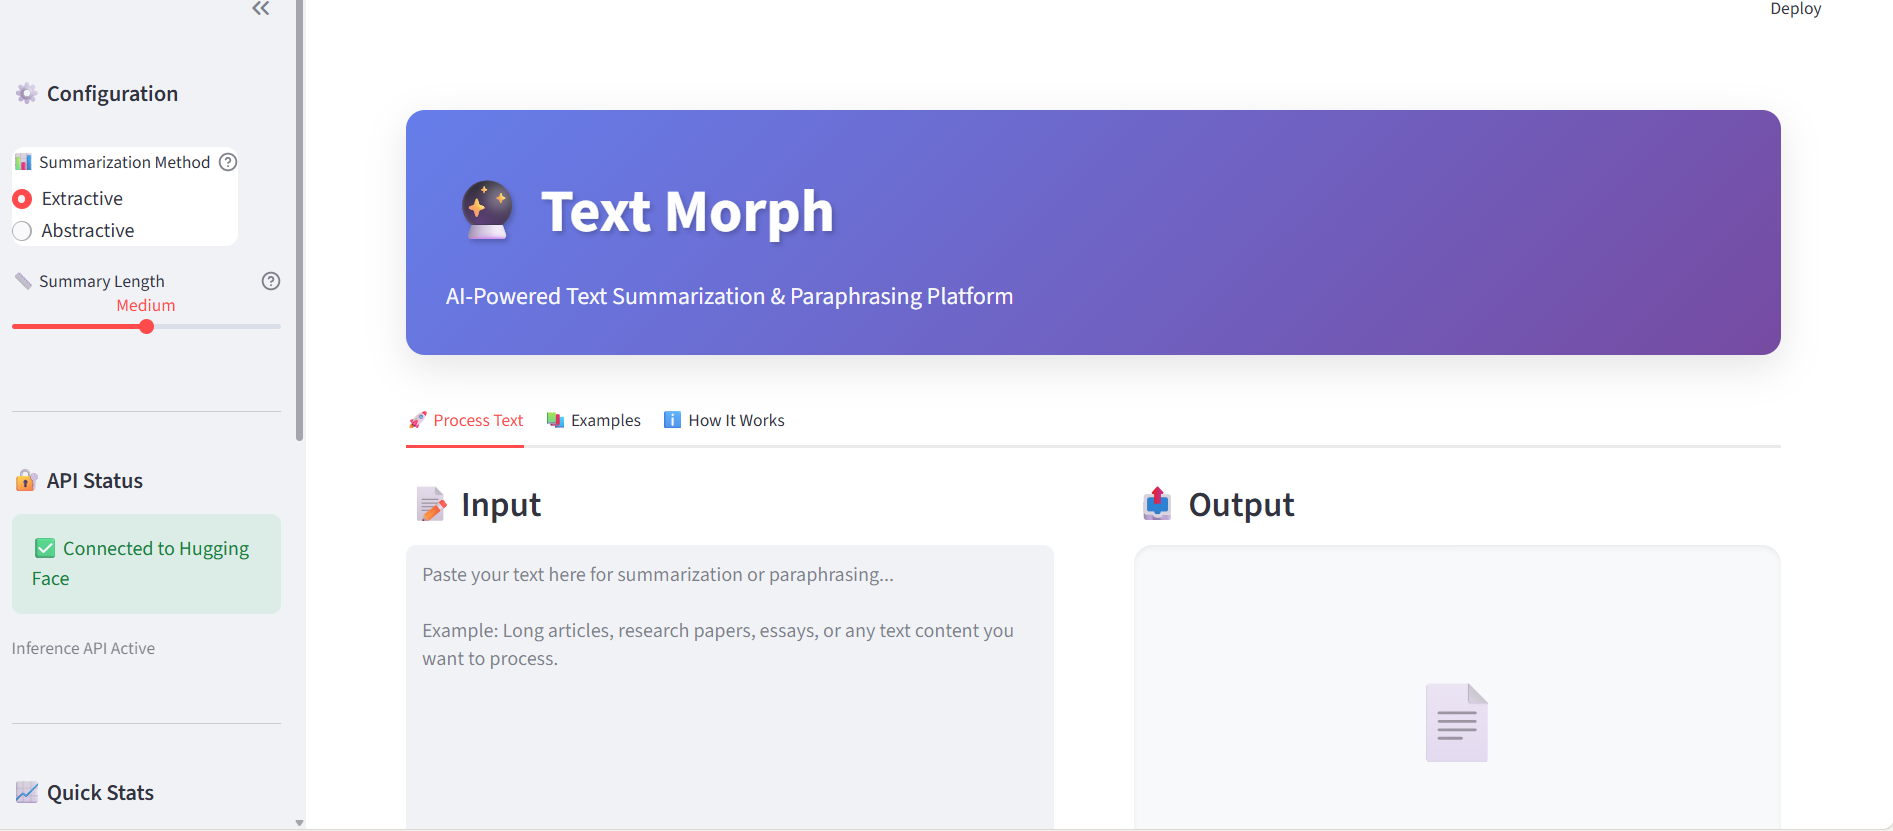
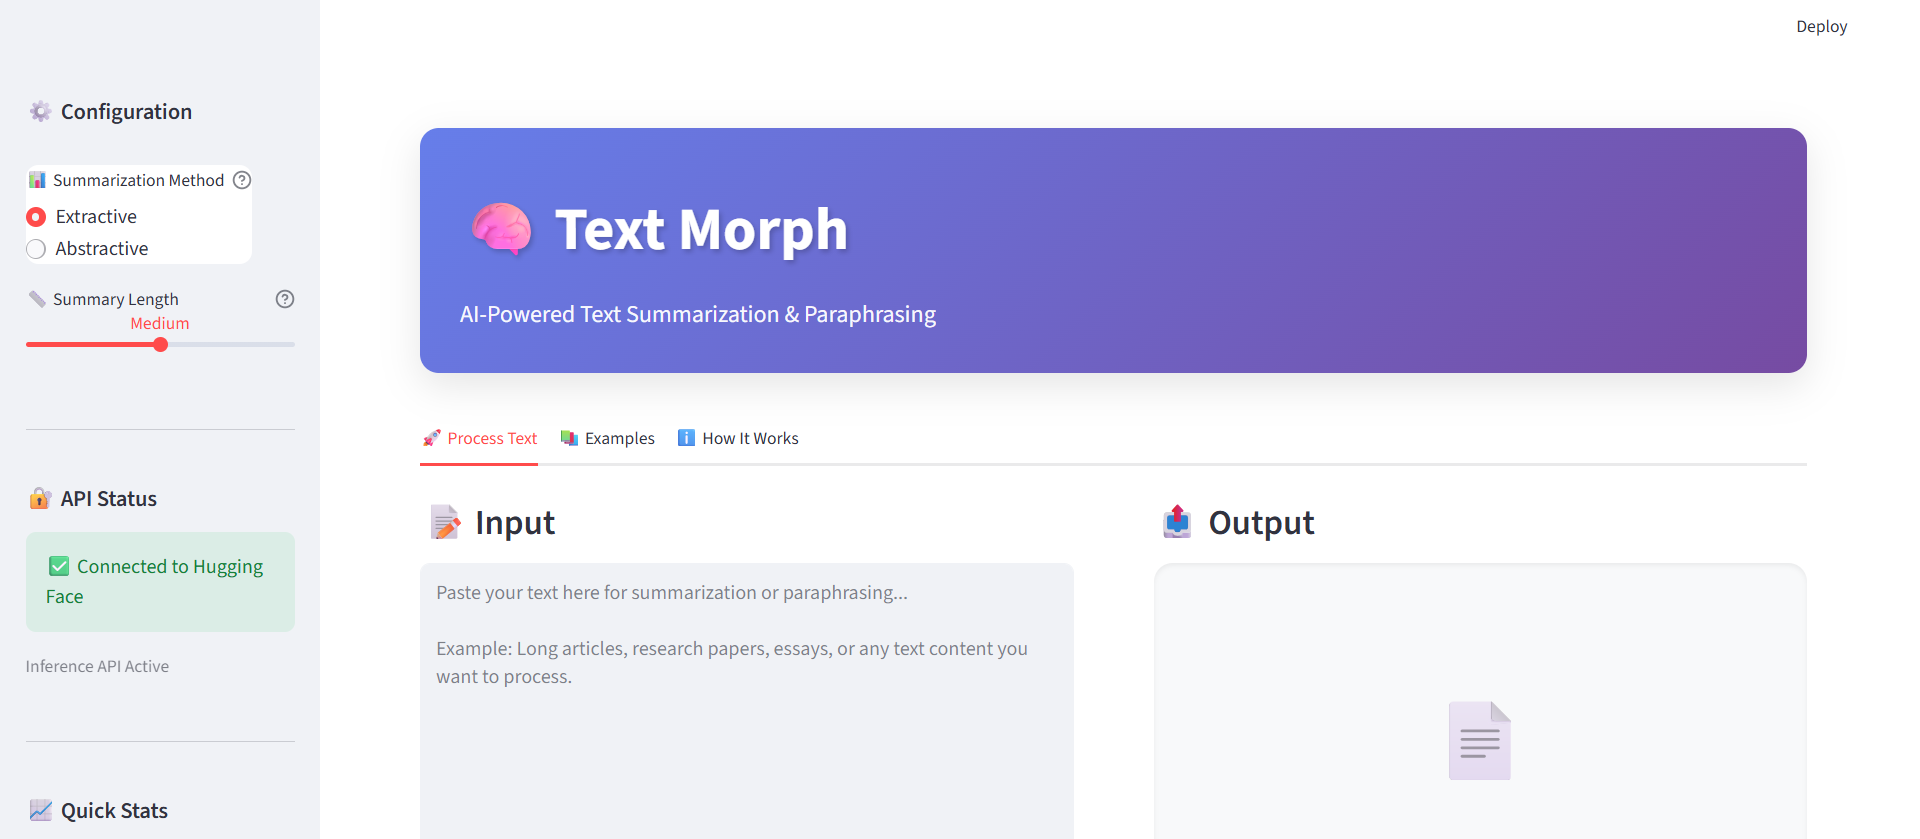
Update README.md and screenshots

diff --git a/README.md b/README.md
@@ -1,24 +1,23 @@
-<<<<<<< HEAD
-# 🔮 Text Morph - Advanced Text Summarization and Paraphrasing
+# 🧠 Text Morph - AI Text Summarization & Paraphrasing
 
 <div align="center">
 
 ![Python](https://img.shields.io/badge/python-v3.8+-blue.svg)
 ![Streamlit](https://img.shields.io/badge/streamlit-1.28+-FF4B4B.svg?style=flat&logo=streamlit&logoColor=white)
-![Hugging Face](https://img.shields.io/badge/🤗%20Hugging%20Face-API-yellow.svg)
+![Hugging Face](https://img.shields.io/badge/🤗%20Hugging%20Face-yellow.svg)
 ![NLP](https://img.shields.io/badge/NLP-BART%20%7C%20LLaMA-green.svg)
 ![License](https://img.shields.io/badge/license-MIT-green.svg)
 
-*A beautiful, AI-powered web application that provides intelligent text summarization and paraphrasing using state-of-the-art language models.*
+*An AI-powered web app that helps you summarize and paraphrase text quickly and easily.*
 
 </div>
 
-## 📸 Screenshot
+## 📸 Screenshots
 
-Here is a preview of the application's user interface:
+Here is a preview of Text Morph interface:
 
-![Text Morph Interface](assets/screenshot1.png)
-![Text Morph Interface](assets/screenshot2.png)
+![Text Morph Screenshot 1](assets/screenshot1.png)
+![Text Morph Screenshot 2](assets/screenshot2.png)
 
 ## 📋 Table of Contents
 
@@ -35,73 +34,67 @@ Here is a preview of the application's user interface:
 
 ## 🎯 Project Overview
 
-**Text Morph** is an advanced AI-powered text processing platform designed to help users quickly understand and rework lengthy content. It leverages state-of-the-art Natural Language Processing (NLP) models including Facebook's BART and Meta's LLaMA 3.1 to provide two core functionalities:
+**Text Morph** is a smart AI text tool that lets you shorten and rephrase long text.  
+It uses NLP models including Facebook's **BART** and Meta's **LLaMA 3.1** to provide:
 
-1. **Text Summarization**: Condense long documents into concise summaries using both extractive and abstractive methods
-2. **Text Paraphrasing**: Rephrase content while maintaining its original meaning
+1. **Summarization**: Condense text using extractive or abstractive methods  
+2. **Paraphrasing**: Rephrase content naturally without changing meaning
 
-The application features a modern, professional interface with gradient themes, smooth animations, and an intuitive design built with Streamlit. It's perfect for students, professionals, content creators, and researchers who need to process large amounts of text efficiently.
+The interface is simple, modern, and interactive using Streamlit. Ideal for students, writers, and professionals needing fast text processing.
 
 ## ✨ Features
 
-### 🎨 Modern User Interface
--   **Beautiful Gradient Design**: Professional purple gradient theme with smooth transitions
--   **Tab-Based Navigation**: Organized interface with Process Text, Examples, and How It Works tabs
--   **Responsive Layout**: Works seamlessly on desktop and mobile devices
--   **Real-Time Metrics**: Live character count, word count, and reduction percentage
--   **Smooth Animations**: Hover effects and transitions for enhanced user experience
+### 🎨 Modern Interface
+- Gradient-based purple theme with smooth design
+- Tabs for **Process Text**, **Examples**, **How It Works**
+- Mobile-friendly layout
+- Live character, word count, and reduction percentage
+- Smooth button hover effects
 
-### 🤖 AI-Powered Processing
--   **Dual Summarization Methods**:
-    -   **Extractive**: Selects key sentences from the original text
-    -   **Abstractive**: Generates new summary sentences using AI
--   **Intelligent Paraphrasing**: Natural language rephrasing with multiple variations
--   **Flexible Summary Lengths**: Choose from Short (30-60 words), Medium (60-130 words), or Long (130-200 words)
+### 🤖 AI Processing
+- **Two summarization modes**: Extractive & Abstractive
+- **Paraphrasing**: Multiple alternative phrasings
+- Choose summary length: Short, Medium, Long
 
-### ⚡ Performance & Convenience
--   **Fast Processing**: 2-5 second response time
--   **Cloud-Based**: No model downloads required
--   **Download Results**: Export summaries and paraphrased text as .txt files
--   **API Status Monitoring**: Real-time connection status display
+### ⚡ Convenience
+- Fast results (2-5 sec)
+- Cloud-based (no local model downloads)
+- Download summaries & paraphrases as `.txt`
+- API status indicator for Hugging Face and GROQ
 
 ## 🛠 Technologies Used
 
 | Technology | Purpose |
 |------------|---------|
 | ![Python](https://img.shields.io/badge/Python-3776AB?style=flat&logo=python&logoColor=white) | Core programming language |
-| ![Streamlit](https://img.shields.io/badge/Streamlit-FF4B4B?style=flat&logo=streamlit&logoColor=white) | Web application framework |
+| ![Streamlit](https://img.shields.io/badge/Streamlit-FF4B4B?style=flat&logo=streamlit&logoColor=white) | Web app framework |
 | ![Hugging Face](https://img.shields.io/badge/🤗%20Hugging%20Face-FFD21E?style=flat) | BART model API access |
-| ![GROQ](https://img.shields.io/badge/GROQ-000000?style=flat&logo=groq&logoColor=white) | LLaMA model inference API |
-| ![Requests](https://img.shields.io/badge/Requests-2CA5E0?style=flat) | HTTP library for API calls |
-| ![Python-dotenv](https://img.shields.io/badge/python--dotenv-ECD53F?style=flat) | Environment variable management |
-| ![CSS](https://img.shields.io/badge/CSS3-1572B6?style=flat&logo=css3&logoColor=white) | Custom styling and animations |
+| ![GROQ](https://img.shields.io/badge/GROQ-000000?style=flat&logo=groq&logoColor=white) | LLaMA model API |
+| ![Requests](https://img.shields.io/badge/Requests-2CA5E0?style=flat) | HTTP calls to APIs |
+| ![Python-dotenv](https://img.shields.io/badge/python--dotenv-ECD53F?style=flat) | Manage environment variables |
+| ![CSS](https://img.shields.io/badge/CSS3-1572B6?style=flat&logo=css3&logoColor=white) | Custom styles & animations |
 
 ## 🤖 AI Models
 
-### BART (Bidirectional and Auto-Regressive Transformers)
--   **Developer**: Facebook AI Research
--   **Model**: `facebook/bart-large-cnn`
--   **Parameters**: 406M
--   **Purpose**: Text summarization (both extractive and abstractive)
--   **Strengths**: High accuracy, contextual understanding, versatile for various text types
+### BART (Facebook AI)
+- Model: `facebook/bart-large-cnn`
+- Used for: Summarization (extractive & abstractive)
+- Strength: Understands context, accurate summaries
 
-### LLaMA 3.1 (Large Language Model Meta AI)
--   **Developer**: Meta AI
--   **Model**: `llama-3.1-8b-instant`
--   **Parameters**: 8B
--   **Purpose**: Text paraphrasing
--   **Strengths**: Natural language generation, fast inference, maintains semantic meaning
+### LLaMA 3.1 (Meta AI)
+- Model: `llama-3.1-8b-instant`
+- Used for: Paraphrasing
+- Strength: Fast, maintains meaning, multiple variations
 
 ## 🚀 Quick Start
 
 ### Prerequisites
-- Python 3.8 or higher
-- Hugging Face API key (free)
-- GROQ API key (free)
+- Python 3.8+
+- Hugging Face API key
+- GROQ API key
 
 ### Installation
-
-1. **Clone the repository**
+1. **Clone repo:**
    ```bash
    git clone https://github.com/yourusername/text-morph.git
    cd text-morph
@@ -179,38 +172,29 @@ Your default web browser will open automatically at `http://localhost:8501`
 ```
 TEXT_MORPH/
 │
-├── 📁 __pycache__/                 # Python cache files
-│
-├── 📁 assets/                      # Static assets
-│   ├── screenshot1.png             # Application screenshot 1
-│   └── screenshot2.png             # Application screenshot 2
-│
-├── 📁 configure/                   # Configuration files
-│   ├── config_manager.py           # Configuration manager
-│   └── config.yaml                 # Application configuration
-│
-├── 📁 docs/                        # Documentation
-│   ├── API_Docs.md                 # API documentation
-│   └── Technical_Report.md         # Technical report
-│
-├── 📁 myenv/                       # Virtual environment (not in repo)
-│
-├── 📁 src/                         # Source code
-│   ├── __pycache__/                # Python cache
-│   ├── __init__.py                 # Package initializer
-│   ├── .env                        # Environment variables (API keys)
-│   ├── AbstractiveSummarizer.py    # Abstractive summarization module
-│   ├── combinedPipeline.py         # Main pipeline orchestrator
-│   ├── exceptions.py               # Custom exception classes
-│   ├── ExtractiveSummarizer.py     # Extractive summarization module
-│   ├── logging_system.py           # Logging configuration
-│   └── paraphraser.py              # Text paraphrasing module
-│
-├── .gitignore                      # Git ignore rules
-├── app.py                          # Main Streamlit application
-├── pyproject.toml                  # Project metadata
-├── README.md                       # Project documentation (this file)
-└── requirements.txt                # Python dependencies
+├── assets/                  # Images & static files
+│   ├── screenshot1.png
+│   └── screenshot2.png
+├── configure/               # Configuration
+│   ├── config_manager.py
+│   └── config.yaml
+├── docs/                    # Documentation
+│   ├── API_Docs.md
+│   └── Technical_Report.md
+├── src/                     # Source code
+│   ├── __init__.py
+│   ├── AbstractiveSummarizer.py
+│   ├── combinedPipeline.py
+│   ├── exceptions.py
+│   ├── ExtractiveSummarizer.py
+│   ├── logging_system.py
+│   └── paraphraser.py
+├── app.py
+├── requirements.txt
+├── pyproject.toml
+├── .gitignore
+└── README.md
+
 ```
 
 ## 🎨 UI Features
@@ -247,21 +231,21 @@ TEXT_MORPH/
 
 Contributions are welcome! Here's how you can help:
 
-1. 🍴 Fork the repository
-2. 🌿 Create a feature branch (`git checkout -b feature/AmazingFeature`)
-3. 💾 Commit your changes (`git commit -m 'Add some AmazingFeature'`)
-4. 📤 Push to the branch (`git push origin feature/AmazingFeature`)
-5. 🔄 Open a Pull Request
+1. Fork the repository
+2. Create feature branch (`git checkout -b feature/NewFeature`)
+3. Commit changes (`git commit -m 'Add Feature'`)
+4. Push branch (`git push origin feature/NewFeature`)
+5. Open a Pull Request
 
-### Ideas for Contributions:
-- 🌙 Dark mode toggle
-- 🌍 Multi-language support
-- 📄 PDF/DOCX file upload
-- 📊 Batch processing capabilities
-- 📝 History tracking feature
-- 🎨 Additional theme options
-- 🤖 More AI model options
-- 📱 Progressive Web App (PWA) features
+### Contribution Ideas:
+- Dark mode toggle
+- Multi-language support
+- PDF/DOCX file upload
+- Batch processing 
+- History tracking 
+- Additional theme options
+- New AI model options
+- Progressive Web App (PWA) features
 
 ## 📄 License
 
@@ -271,9 +255,9 @@ This project is licensed under the MIT License - see the [LICENSE](LICENSE) file
 
 <div align="center">
 
-### 🌟 If you found this project helpful, please give it a star! ⭐
+### If you found this project helpful, please give it a star! ⭐
 
-**Created with ❤ by Jeev | Powered by AI**
+**Created by Sejal PM | Powered by AI**
 
 [Report Bug](https://github.com/yourusername/text-morph/issues) · [Request Feature](https://github.com/yourusername/text-morph/issues)
 
